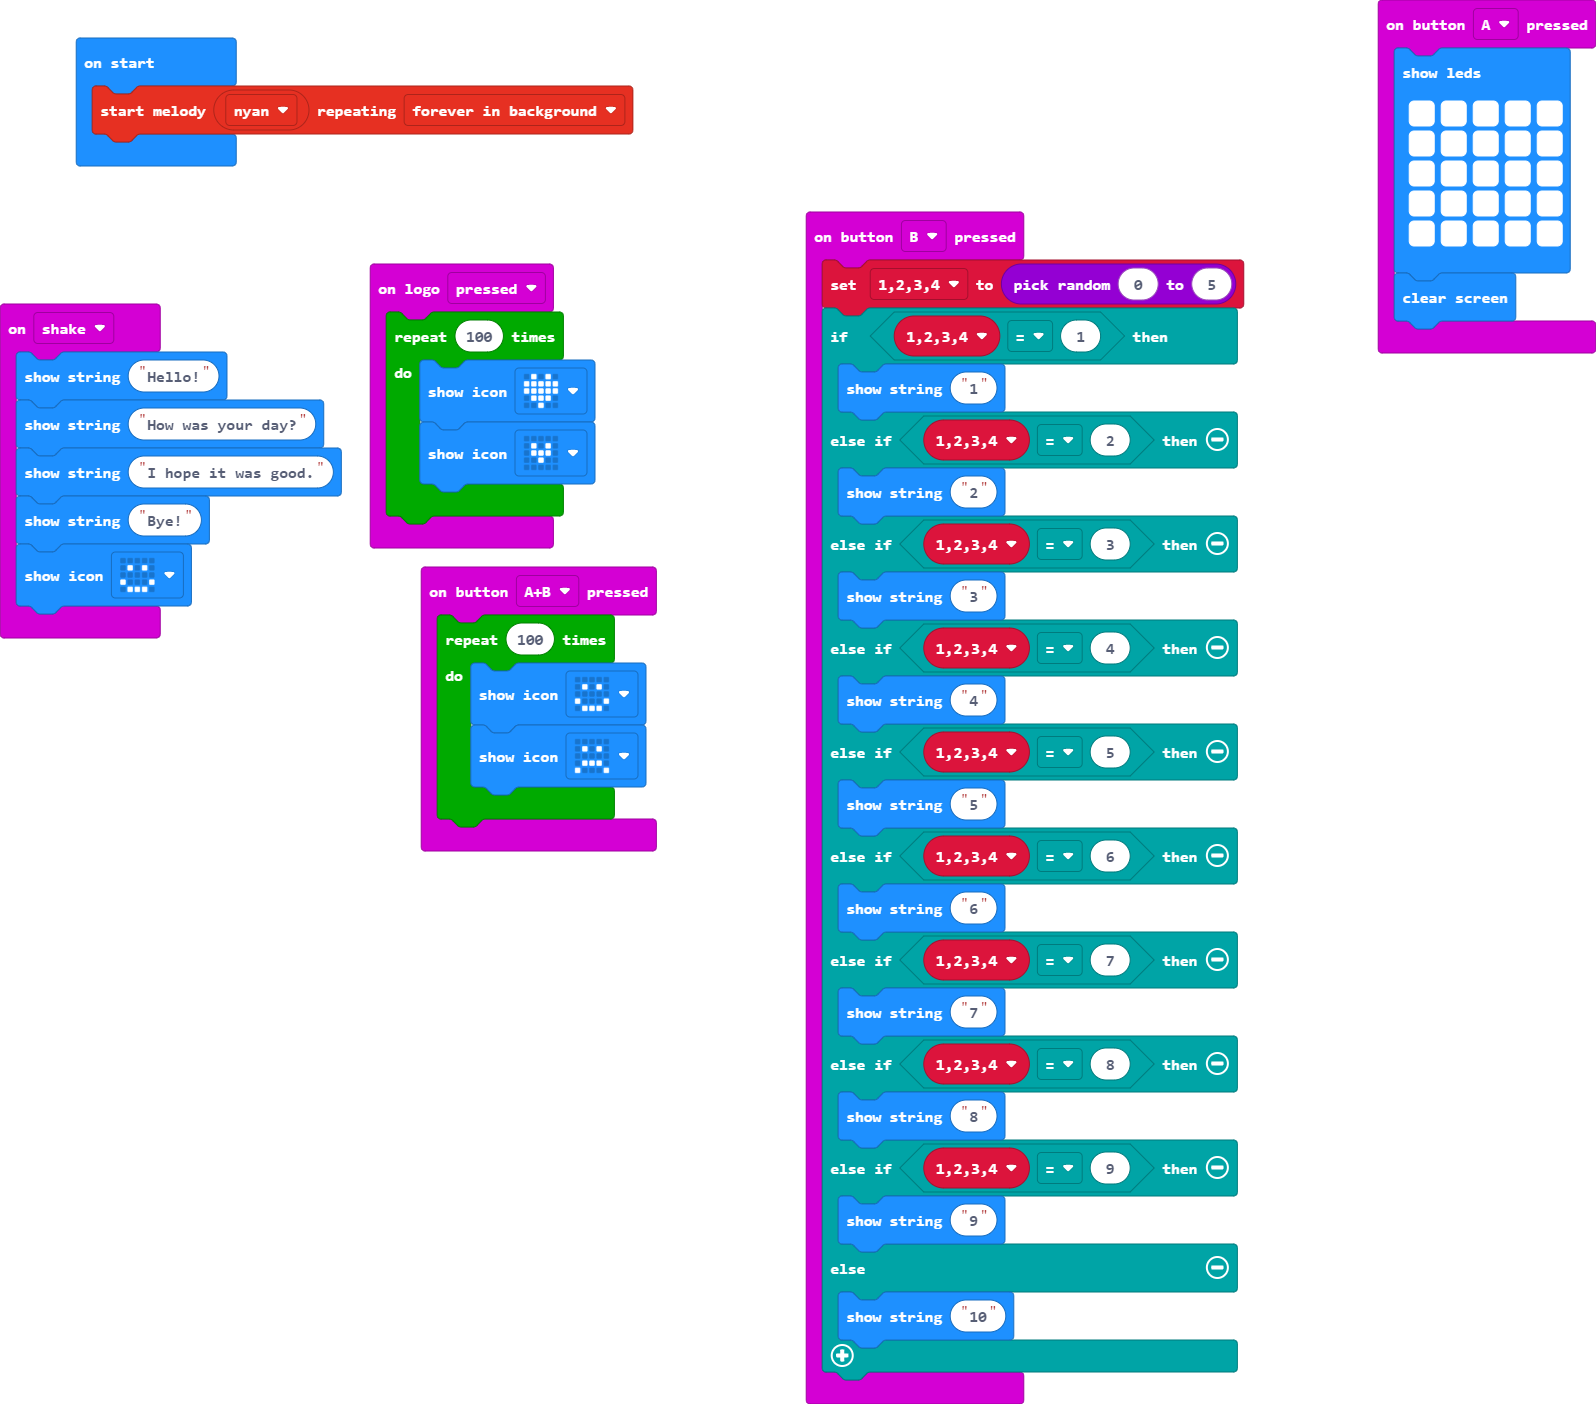
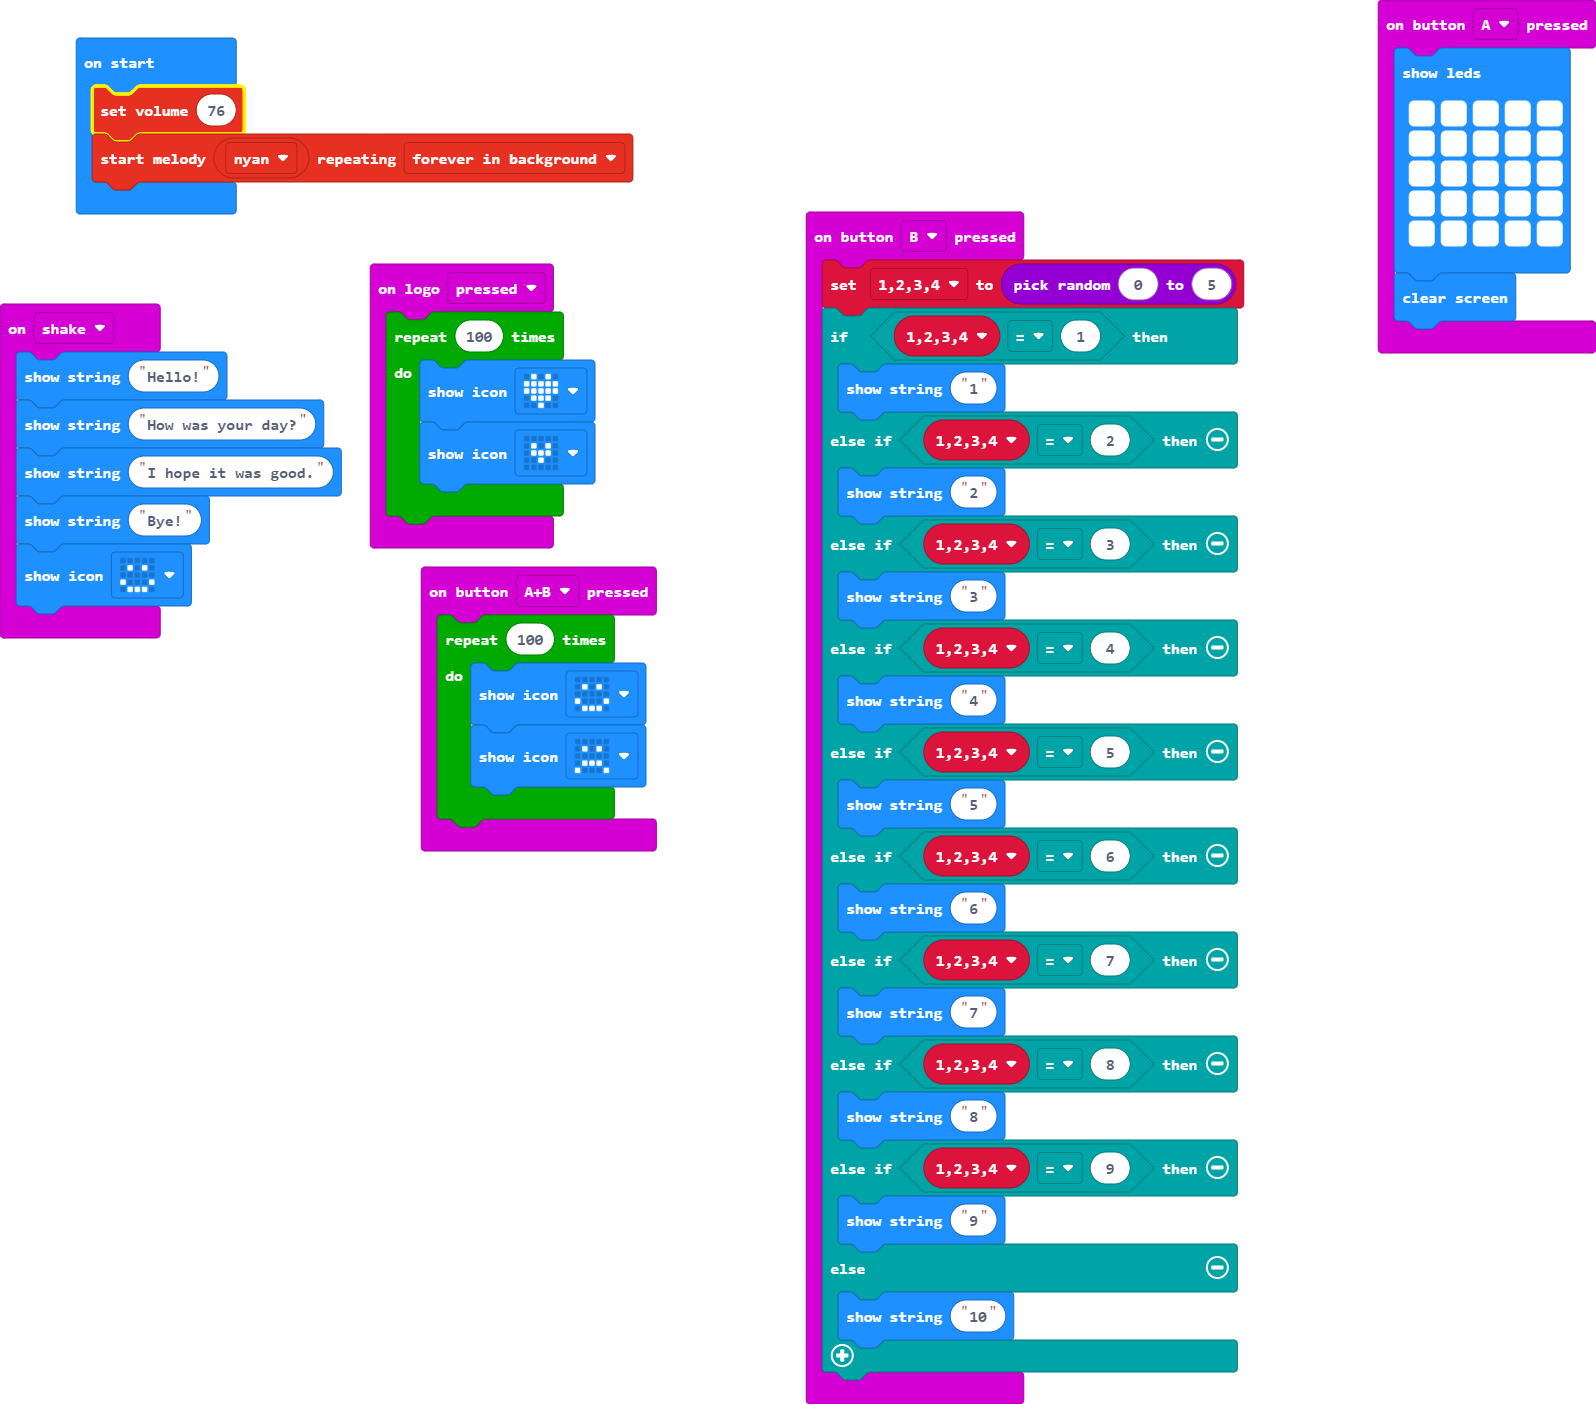
Update main.blocks, main.ts

Changed region(s): [[0.0307, 0.0613, 0.3991, 0.1531]]

diff --git a/main.ts b/main.ts
@@ -52,4 +52,5 @@ input.onLogoEvent(TouchButtonEvent.Pressed, function () {
     }
 })
 let _1234 = 0
+music.setVolume(76)
 music.startMelody(music.builtInMelody(Melodies.Nyan), MelodyOptions.ForeverInBackground)
